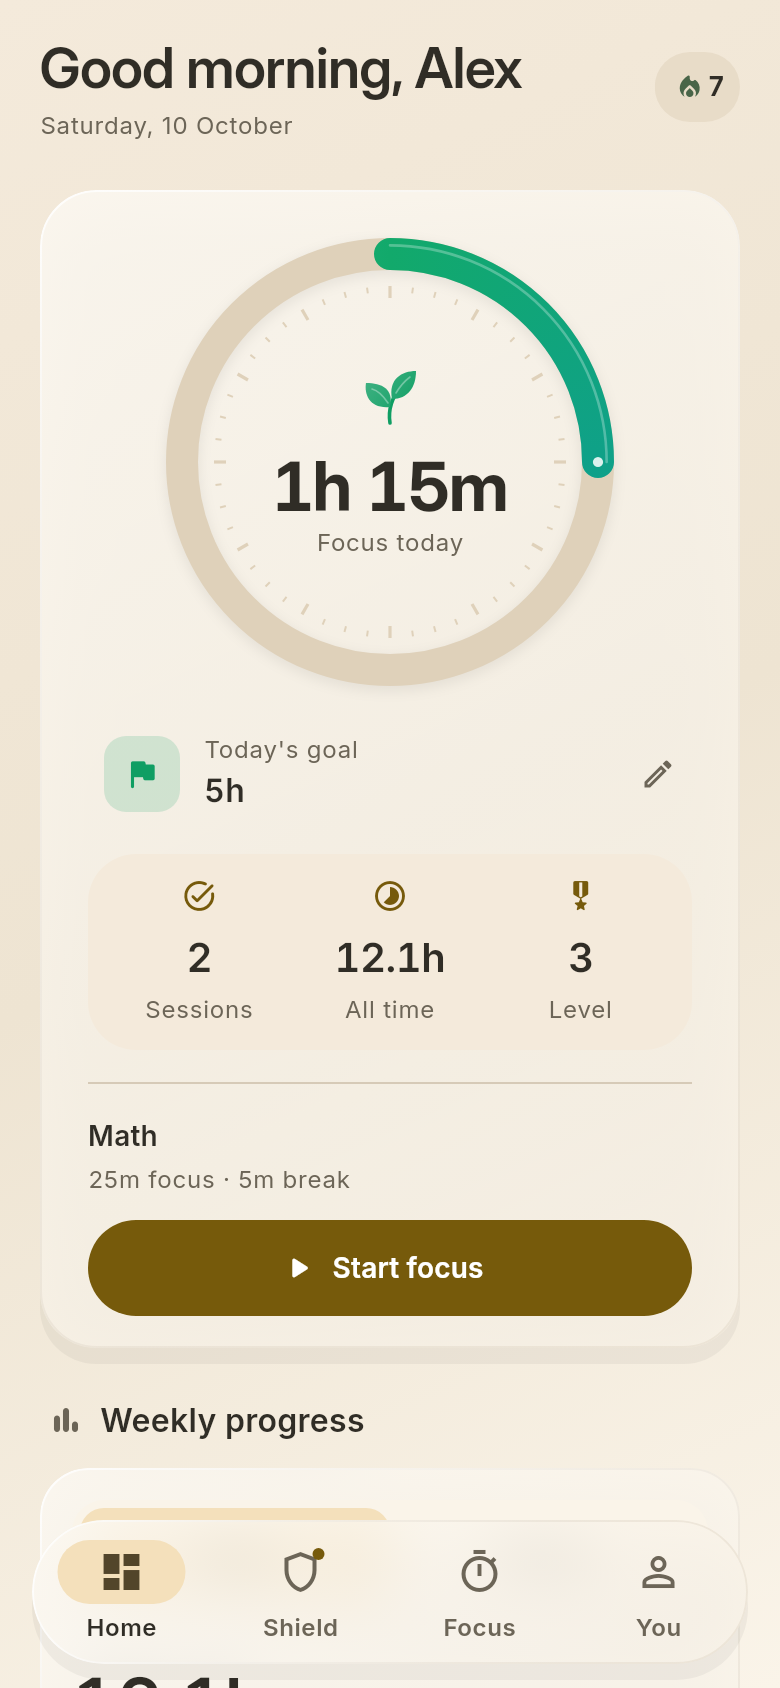
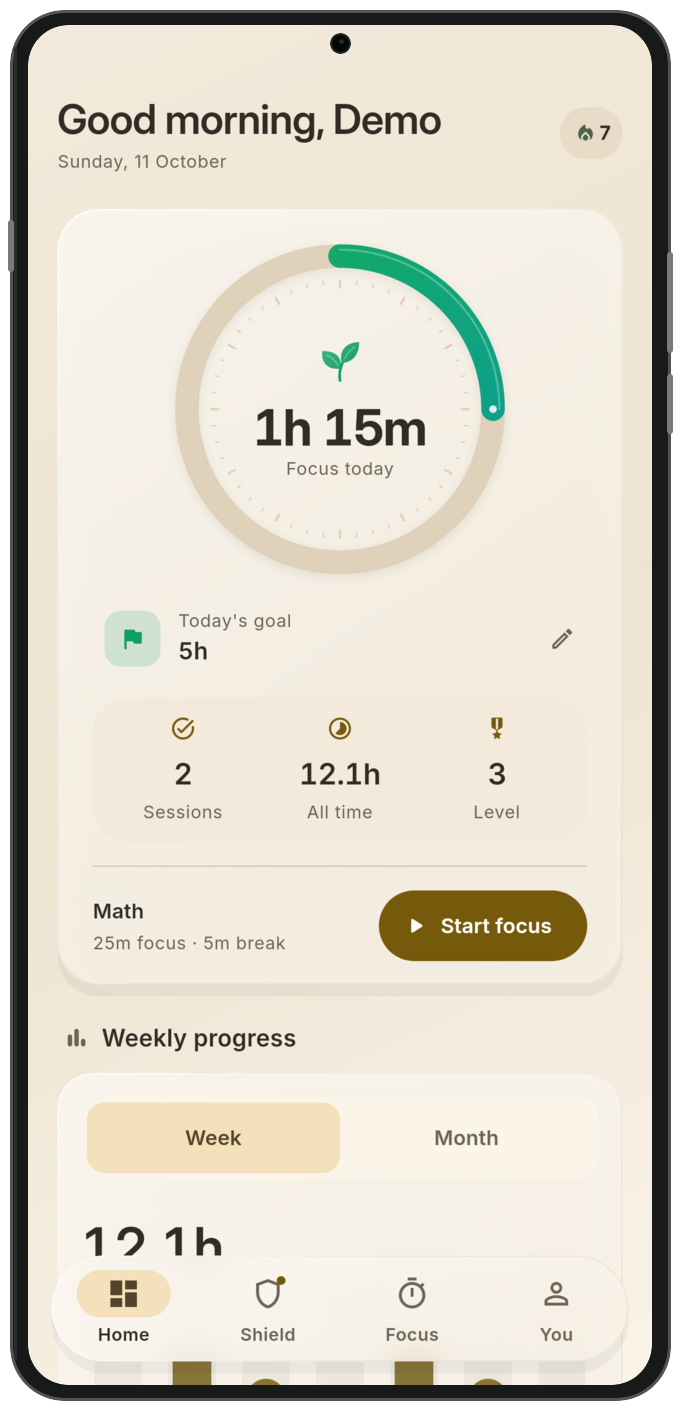
docs(readme): add Day and Dark phone galleries

diff --git a/docs/screenshots/README.md b/docs/screenshots/README.md
@@ -1,0 +1,64 @@
+# Screenshot gallery
+
+The Day and Dark galleries each contain four 680 × 1416 PNGs showing actual
+Flutter renders of the 1.0.3+2016 application, composed into illustrative OnePlus 15-inspired frames.
+They are not physical-device screenshots or official manufacturer renders.
+Personal progress and the Demo Student profile are fictional local sample data;
+no cloud memberships or leaderboard standings were fabricated.
+
+The capture source tree is `3f74e04d1424a561880812aa79c0ffb7b59633ff`,
+shared by the original build-2016 commit and the attribution-only rewritten
+commit `1e2f41619b648d99eff8814af238867e54c3d9f3`. Capture-only uncommitted
+changes were excluded. Screens were captured at 1272 × 2772 and resized
+proportionally for the phone interiors.
+
+The separate Play Store artwork layout and headline treatment reference the supplied
+[banner](https://github.com/MufasaXz/che110-ca1/blob/main/IMG_20261011_162251_888.jpg).
+Marketing text uses Barlow Condensed Bold and Barlow Regular, licensed under
+[SIL Open Font License 1.1](https://github.com/jpt/barlow/blob/main/OFL.txt).
+The app's own typography is unchanged.
+
+Phone proportions reference [OnePlus 15 specifications](https://www.oneplus.com/us/15/specs).
+Corner radii, camera size and side keys are illustrative, not manufacturing drawings.
+
+PNG decoding, OCR, image geometry and ZIP integrity were checked. The image
+bridge did not permit direct visual inspection; no subjective visual approval
+or real-device verification is claimed.
+
+The four GitHub gallery files are RGBA PNGs with transparent backgrounds,
+not rectangular crops of the Play Store artwork. The original vector phone
+body and three side keys are recomposed directly onto transparency; the
+paper canvas and paper-colored offset shadow are omitted. No white-color
+removal is used, so light app content stays fully opaque.
+
+Original 1080 × 1920 composition geometry: outer body rounded rectangle
+`(210,460)–(870,1850)`, radius 54; right keys `(867,702)–(872,802)` and
+`(867,824)–(872,883)`, radius 2; left key `(208,670)–(213,721)`, radius 2.
+The final 680 × 1416 canvas starts at original coordinate `(200,450)`.
+Only the silhouette's anti-aliased edge has partial alpha. Exterior pixels
+are transparent, solid frame/screen pixels are opaque, and central screen
+pixels were verified byte-for-byte against the source interiors.
+All eight output alpha channels match the independently rendered vector
+silhouette exactly. Gallery changes do not alter the separate Play Store artwork.
+
+## Day and Dark previews
+
+The original four Day PNGs remain byte-for-byte unchanged at their existing paths.
+The four `dark/` PNGs were captured from committed source `55ccc7099146e27cb3af230bc0efc497835c4f83`
+in an isolated archive, excluding the working tree's unrelated profile edits.
+Its `lib/` tree (`c7915a59e3e8a9d9c994c0b6d3eddf5439f1c247`) is identical to the original Day capture's app source.
+The same widget-test harness and fictional local fixtures were used, with
+`themeSettingsProvider` set to `ThemePreference.dark` and AMOLED disabled.
+`FocusForgeApp` derives its MaterialApp theme mode from that provider, so both
+app surfaces and provider-driven components use Dark mode. The capture test passed.
+No native-device output, cloud memberships or leaderboard standings are claimed.
+
+Dark images use the exact silhouette, side keys, camera and transparent exterior
+of the Day images. Their central interiors were verified byte-for-byte against
+the proportionally resized Dark renders, and solid interiors remain opaque.
+Dark text is warm off-white; pure-white pixels are not required for this theme.
+
+The README's Day / Dark selector uses GitHub-supported section links and a native
+expandable Dark gallery. It is not a JavaScript toggle: GitHub sanitizes scripts
+and custom interactive CSS, so selecting a link navigates rather than changing
+an in-place image state. Expand “Show Dark phone gallery” to reveal its images.

diff --git a/README.md b/README.md
@@ -18,14 +18,38 @@ A study companion that protects your attention and makes your progress visible.
 
 <br>
 
+<p><strong>Preview theme</strong> · <a href="#day-mode">Day</a> / <a href="#dark-mode">Dark</a></p>
+<sub>Jump to either gallery below; expand Dark to view it.</sub>
+
+<h3 id="day-mode">Day mode</h3>
+
 <p>
-  <img src="docs/screenshots/01-dashboard.png" width="186" alt="Home — day theme with daily goal, focus totals and weekly progress">
-  <img src="docs/screenshots/02-shield.png" width="186" alt="Shield — day theme with app filters and distraction rules">
-  <img src="docs/screenshots/03-focus.png" width="186" alt="Focus — day theme with tan retro countdown dial and current study subject">
-  <img src="docs/screenshots/04-you.png" width="186" alt="You — dark theme with profile progress and weekly study recap">
+  <img src="docs/screenshots/01-dashboard.png" width="186" alt="Home — Day mode with sample focus totals">
+  <img src="docs/screenshots/02-shield.png" width="186" alt="Shield — Day mode with a demo app catalog">
+  <img src="docs/screenshots/03-focus.png" width="186" alt="Focus — Day mode with a sample study timer">
+  <img src="docs/screenshots/04-you.png" width="186" alt="You — Day mode with Demo Student's profile">
 </p>
 
-<sub>Home · Day &nbsp; / &nbsp; Shield · Day &nbsp; / &nbsp; Focus · Day &nbsp; / &nbsp; You · Dark</sub>
+<sub>Home / Shield / Focus / You · Day</sub>
+
+<h3 id="dark-mode">Dark mode</h3>
+
+<details>
+<summary>Show Dark phone gallery</summary>
+
+<p>
+  <img src="docs/screenshots/dark/01-dashboard.png" width="186" alt="Home — Dark mode with sample focus totals">
+  <img src="docs/screenshots/dark/02-shield.png" width="186" alt="Shield — Dark mode with a demo app catalog">
+  <img src="docs/screenshots/dark/03-focus.png" width="186" alt="Focus — Dark mode with a sample study timer">
+  <img src="docs/screenshots/dark/04-you.png" width="186" alt="You — Dark mode with Demo Student's profile">
+</p>
+
+<sub>Home / Shield / Focus / You · Dark</sub>
+
+</details>
+
+<br>
+<sub>Actual app widget-test renders with fictional local demo data, composed in stylized phone frames; not physical-device screenshots. [Screenshot provenance](docs/screenshots/README.md).</sub>
 
 </div>
 

diff --git a/CHANGELOG.md b/CHANGELOG.md
@@ -1,8 +1,17 @@
 # Changelog
 
-## 1.0.3 — 2026-10-10
+## 1.0.3 — 2026-10-11
 
-Android build 2015.
+Android build 2016.
+
+- Refreshed weekly leaderboard standings, study groups, profile identity and
+  insights, settings, parent controls and child progress with responsive glass
+  cards and clearer hierarchy.
+- Stabilized floating navigation pill transparency during tab transitions and
+  added layout regression coverage. Physical-device flash elimination has not
+  been verified.
+- Updated the GitHub gallery with four phone-only light-theme app renders.
+  All sample study and profile data is fictional.
 
 - Setup flow polish: frosted pinned footer, per-stage progress stepper,
   product promise on the splash, and a tonal celebration hero. Guardian and
@@ -42,7 +51,9 @@ Android build 2015.
 - Recovered sessions stop reading providers if the container is disposed while
   a save is in progress.
 
-### Release details
+### Earlier build-2015 validation (historical)
+
+The following checks describe the previous build, not final build 2016.
 
 - Version 1.0.3 (2015), signed with the existing Android release certificate.
   The build number exceeds the earlier architecture-specific version codes.
